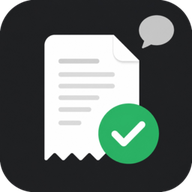
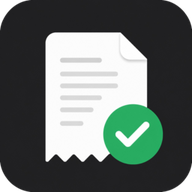
Add files via upload

diff --git a/service-worker.js b/service-worker.js
@@ -1,6 +1,6 @@
 // Service Worker para D'Leia Comprovantes
 // Versão do app — MUDE ESTE NÚMERO sempre que atualizar o app
-const APP_VERSION = '4.6.0';
+const APP_VERSION = '4.7.0';
 const CACHE_NAME = 'dleia-comprovante-' + APP_VERSION;
 
 const ASSETS_TO_CACHE = [